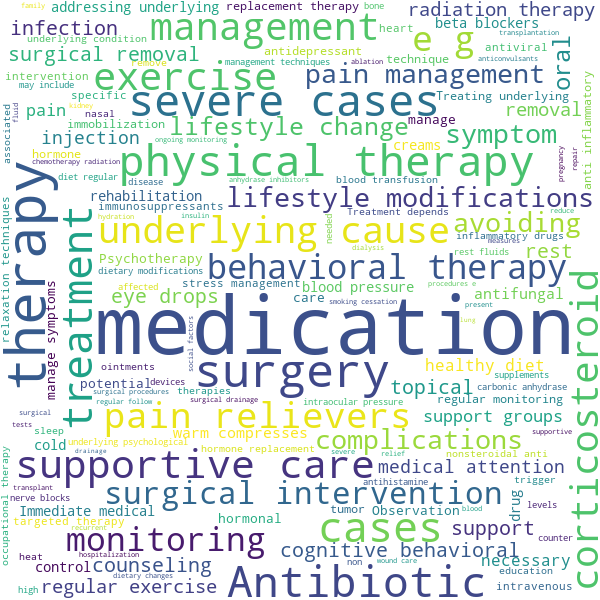
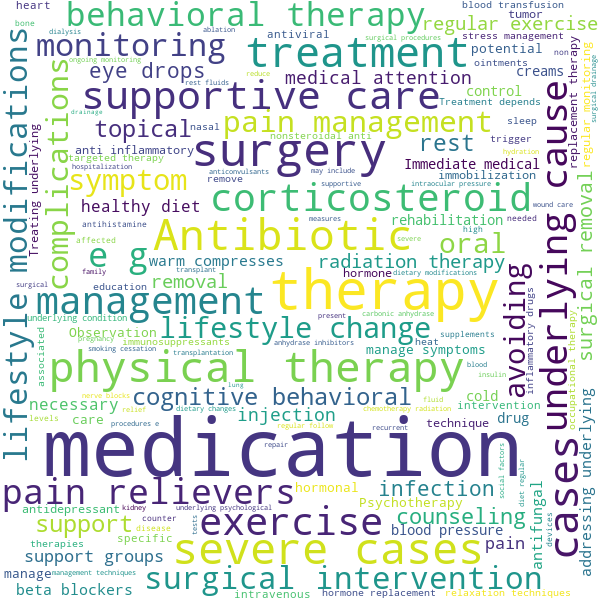
Plots creation in a separate file

diff --git a/milestone1/src/plots.py b/milestone1/src/plots.py
@@ -1,0 +1,99 @@
+import pandas as pd
+from wordcloud import WordCloud
+import matplotlib.pyplot as plt
+import os
+from summary_analysis import create_summary_analysis
+
+# creates a wordcloud for the treatments
+def create_treatments_wordcloud(df, plots_path):
+    text = " ".join(df["treatments"].dropna().astype(str))
+    wordcloud = WordCloud(
+        width=600,
+        height=600,
+        background_color="white",
+        colormap="viridis",
+        max_words=150
+    ).generate(text)
+    plt.figure(figsize=(12, 8))
+    plt.imshow(wordcloud, interpolation="bilinear")
+    plt.axis("off")
+    plt.title("Word Cloud of Treatments", fontsize=15, pad=30)
+    plots_path = os.path.join(plots_dir, "treatments_wordcloud.png")
+    wordcloud.to_file(plots_path)
+    print(f"Word cloud saved as 'treatments_wordcloud.png' in {plots_path} directory.")
+ 
+
+# creates a plot showing the top 10 most common diseases
+def top_10_diseases_plot(var, path):
+    plt.figure(figsize=(10, 6))
+    pd.Series(var['most_common_diseases']).sort_values(ascending=False).plot(kind='bar', edgecolor='black')
+    plt.title("Top 10 Most Common Diseases")
+    plt.xlabel("Disease")
+    plt.ylabel("Record count")
+    plt.xticks(rotation=45, ha='right')
+    plt.yscale('log')
+    plt.tight_layout()
+    path = os.path.join(plots_dir, "disease_counts.png")
+    plt.savefig(path)
+    plt.close()
+    print(f"Saved: {path}")
+
+
+# creates a plot showing the 20 most common diseases 
+def top_20_symptoms_plot(var, path):
+    plt.figure(figsize=(10, 8))
+    var.head(20).sort_values().plot(kind='barh', edgecolor='black')
+    plt.title("Top 20 Most Common Symptoms")
+    plt.xlabel("Mentions")
+    plt.ylabel("Symptom")
+    plt.tight_layout()
+    path = os.path.join(plots_dir, "symptom_counts.png")
+    plt.savefig(path)
+    plt.close()
+    print(f"Saved: {path}")
+
+
+# creates a plot showing the count of unique symptoms per disease
+def unique_symptoms_per_disease(var, path):
+    plt.figure(figsize=(12, 6))
+    # Sort by unique symptom counts 
+    sorted_counts = var.sort_values().reset_index(drop=True)
+    plt.plot(sorted_counts, marker='o', linestyle='-', color='blue', markersize=4)
+    plt.title("Unique Symptom Counts per Disease")
+    plt.xlabel("Disease Index (sorted by unique symptom count)")
+    plt.ylabel("Number of UNIQUE symptoms")
+    plt.grid(True, linestyle='--', alpha=0.5)
+    plt.tight_layout()
+    path = os.path.join(plots_dir, "unique_symptoms_per_disease_line.png")
+    plt.savefig(path)
+    plt.close()
+    print(f"Saved: {path}")
+
+
+# creates a plot showing the total symptoms per disease
+def symptom_mentions_per_disease(var, path):
+    plt.figure(figsize=(10, 6))
+    total_mention_counts.plot(kind='hist', bins=20, edgecolor='black')
+    plt.title("Distribution of TOTAL Symptom Mentions per Disease")
+    plt.xlabel("Total symptom mentions")
+    plt.ylabel("Number of diseases")
+    plt.tight_layout()
+    path = os.path.join(plots_dir, "total_mentions_per_disease_distribution.png")
+    plt.savefig(path)
+    plt.close()
+    print(f"Saved: {path}")
+
+
+if __name__ == "__main__":
+
+    path = "data/final"
+    plots_dir = os.path.join(path, "plots")
+    os.makedirs(plots_dir, exist_ok=True)
+    df = pd.read_csv("data/final/merged_disease_symptom_list.csv")
+    
+    symptom_counts_total, summary_data, unique_symptom_counts, total_mention_counts = create_summary_analysis(df, "data/final/analysis.txt", plots_dir)
+    create_treatments_wordcloud(df, plots_dir)
+    top_10_diseases_plot(summary_data, plots_dir)
+    top_20_symptoms_plot(symptom_counts_total, plots_dir)
+    unique_symptoms_per_disease(unique_symptom_counts, plots_dir)
+    symptom_mentions_per_disease(total_mention_counts, plots_dir)

diff --git a/milestone1/src/summary_analysis.py b/milestone1/src/summary_analysis.py
@@ -1,8 +1,6 @@
 import pandas as pd
 import matplotlib.pyplot as plt
-import sys
 import os
-
 
 def parse_symptoms(cell):
     if pd.isna(cell):
@@ -64,61 +62,7 @@ def create_summary_analysis(df, summary_file, plots_dir):
             f.write(f"  {symptom}: {count} mentions\n")
 
     print(f"Summary analysis saved to: {summary_file}")
-
-    # Plots
-    os.makedirs(plots_dir, exist_ok=True)
-
-    # Top 10 Diseases (by record count)
-    plt.figure(figsize=(10, 6))
-    pd.Series(summary_data['most_common_diseases']).sort_values(ascending=False).plot(kind='bar', edgecolor='black')
-    plt.title("Top 10 Most Common Diseases (by records)")
-    plt.xlabel("Disease")
-    plt.ylabel("Record count")
-    plt.xticks(rotation=45, ha='right')
-    plt.yscale('log')
-    plt.tight_layout()
-    disease_plot_path = os.path.join(plots_dir, "disease_counts.png")
-    plt.savefig(disease_plot_path)
-    plt.close()
-    print(f"Saved: {disease_plot_path}")
-
-    # Top 20 Symptoms 
-    plt.figure(figsize=(10, 8))
-    symptom_counts_total.head(20).sort_values().plot(kind='barh', edgecolor='black')  # sort for nicer H-bar order
-    plt.title("Top 20 Most Common Symptoms (global mentions)")
-    plt.xlabel("Mentions")
-    plt.ylabel("Symptom")
-    plt.tight_layout()
-    symptom_plot_path = os.path.join(plots_dir, "symptom_counts.png")
-    plt.savefig(symptom_plot_path)
-    plt.close()
-    print(f"Saved: {symptom_plot_path}")
-
-    # Line graph of UNIQUE symptoms per disease 
-    plt.figure(figsize=(12, 6))
-    # Sort by unique symptom counts 
-    sorted_counts = unique_symptom_counts.sort_values().reset_index(drop=True)
-    plt.plot(sorted_counts, marker='o', linestyle='-', color='blue', markersize=4)
-    plt.title("Unique Symptom Counts per Disease (Line Graph)")
-    plt.xlabel("Disease Index (sorted by unique symptom count)")
-    plt.ylabel("Number of UNIQUE symptoms")
-    plt.grid(True, linestyle='--', alpha=0.5)
-    plt.tight_layout()
-    line_plot_path = os.path.join(plots_dir, "unique_symptoms_per_disease_line.png")
-    plt.savefig(line_plot_path)
-    plt.close()
-    print(f"Saved: {line_plot_path}")
-
-    plt.figure(figsize=(10, 6))
-    total_mention_counts.plot(kind='hist', bins=20, edgecolor='black')
-    plt.title("Distribution of TOTAL Symptom Mentions per Disease")
-    plt.xlabel("Total symptom mentions")
-    plt.ylabel("Number of diseases")
-    plt.tight_layout()
-    total_hist_path = os.path.join(plots_dir, "total_mentions_per_disease_distribution.png")
-    plt.savefig(total_hist_path)
-    plt.close()
-    print(f"Saved: {total_hist_path}")
+    return symptom_counts_total, summary_data, unique_symptom_counts, total_mention_counts
 
 if __name__ == "__main__":
     path = "data/final"
